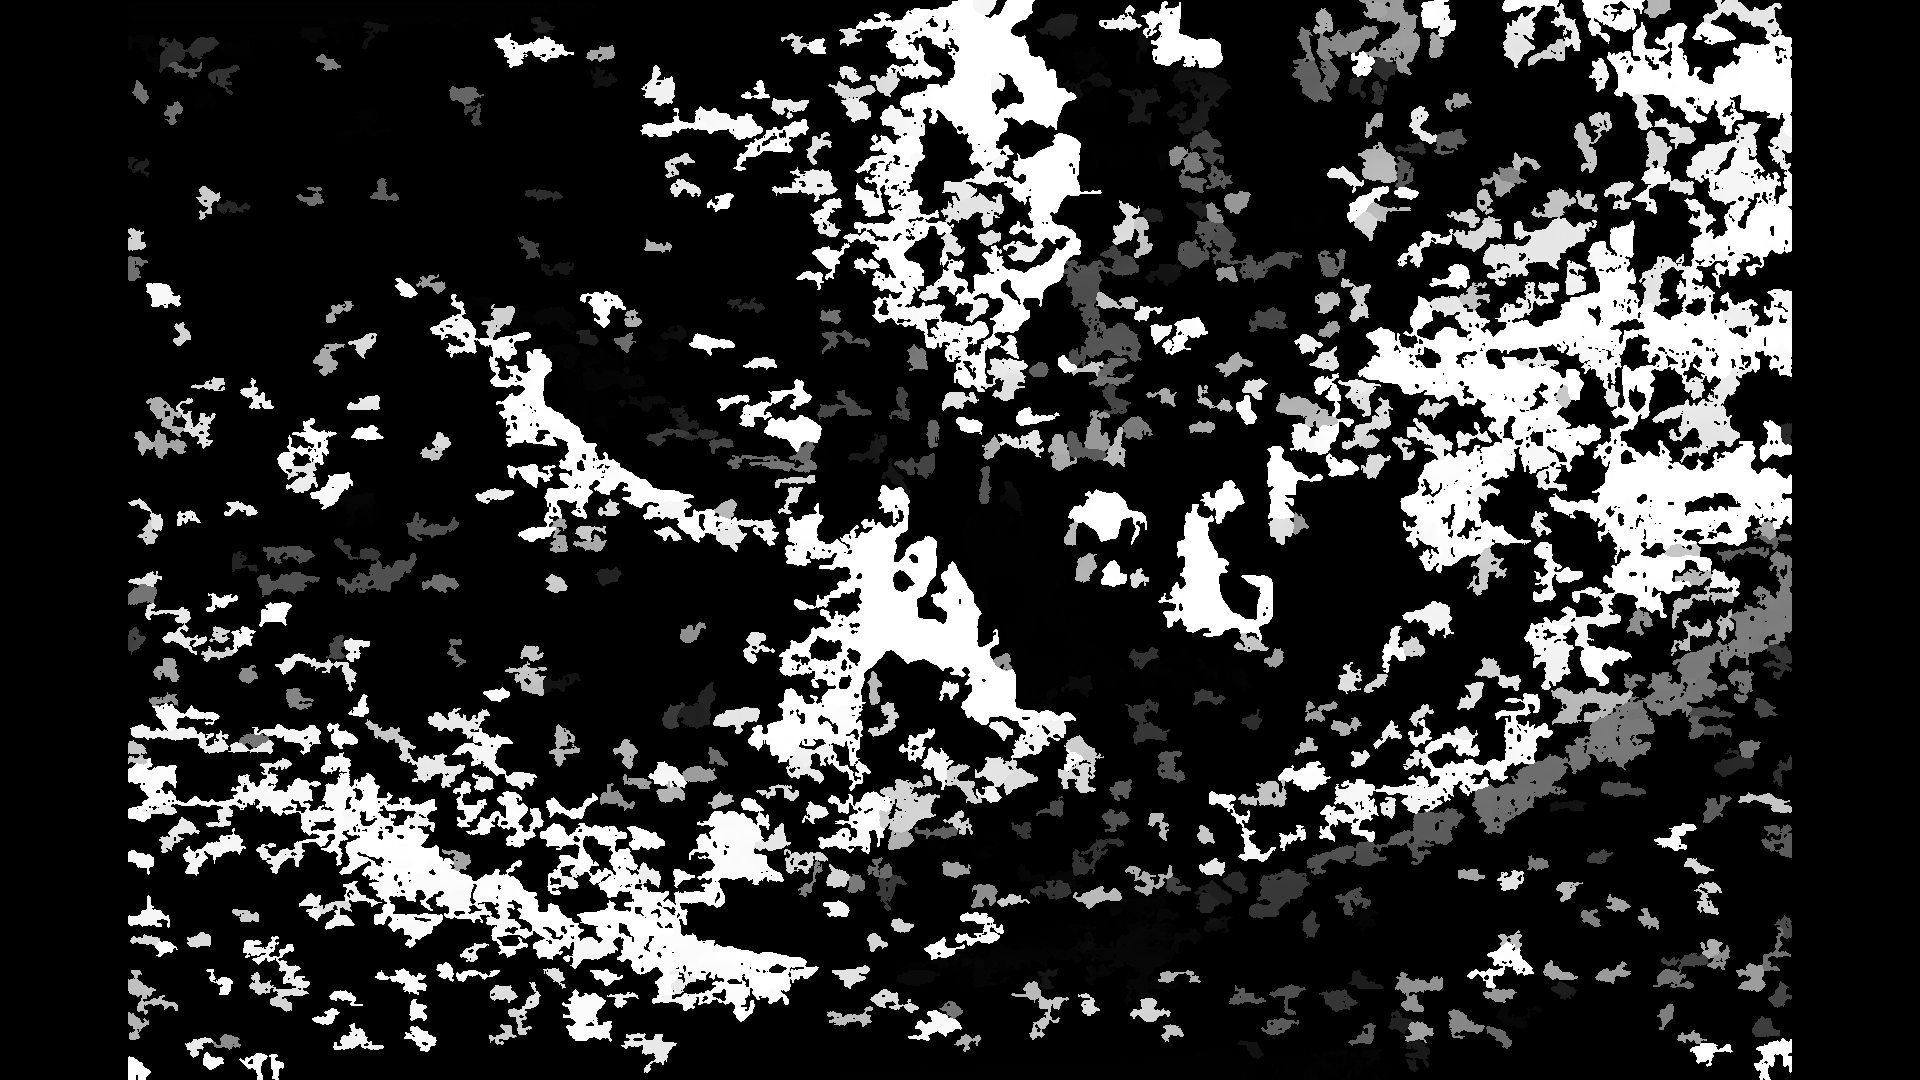
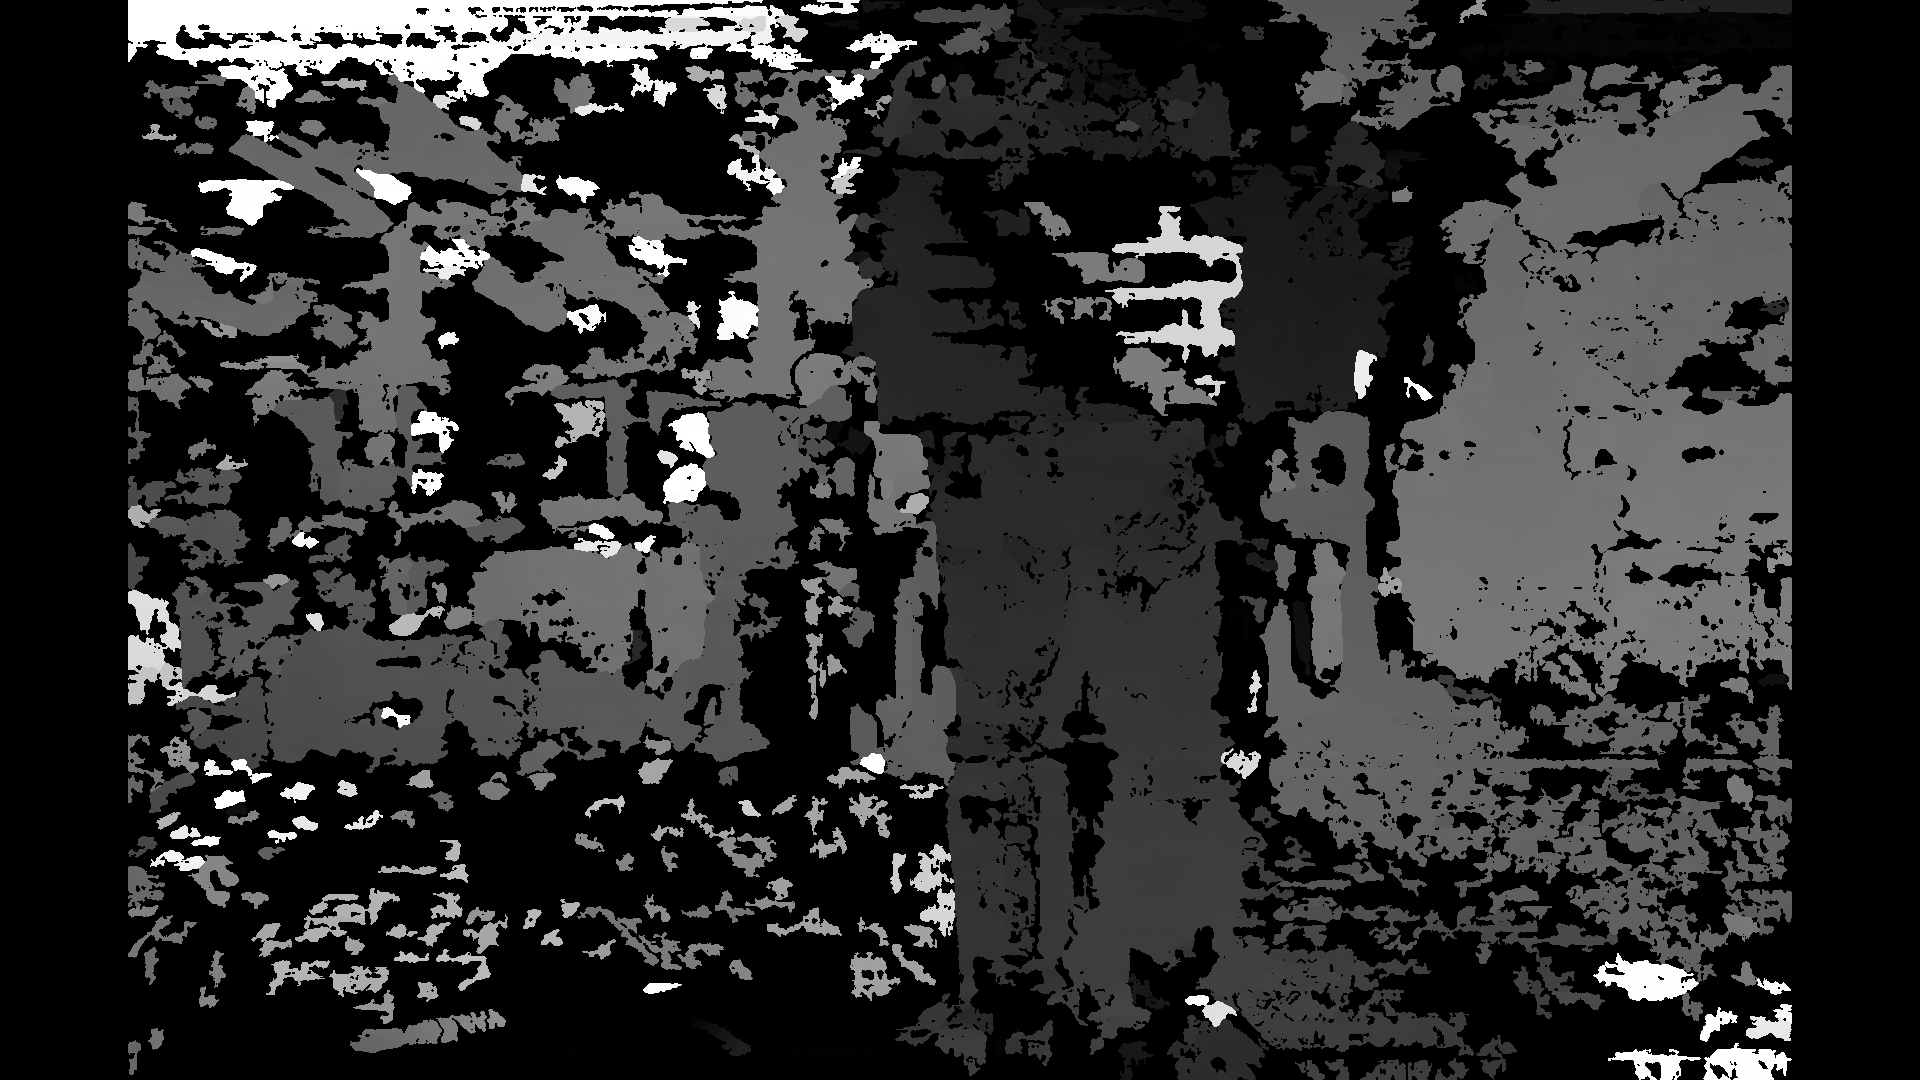
added actual depth to vpi pipeline, and set nice settings for a usable depth map. Added one script for converting a whole set set of images and one script for only one frame. Initial results seem to work well with open3d

diff --git a/vpi_pipeline_dataset.py b/vpi_pipeline_dataset.py
@@ -36,18 +36,36 @@ maps_left_cam, maps_right_cam, ROI1, ROI2 = stereo_rectification_calibrated()
 #wx_r = maps_right_cam_t[0]
 #wy_r = maps_right_cam_t[1]
 
+def calculate_depth(disparity_map, f, B):
+    # Avoid division by zero
+    disparity_map[disparity_map == 0] = 0.1
+    # Compute depth
+    depth_map = (f * B) / disparity_map
+    return depth_map
+
+def normalize_for_display(depth_map):
+    # Normalize depth map to 0-255 for visualization
+    min_val = np.min(depth_map)
+    max_val = np.max(depth_map)
+    norm_depth_map = 65535 * (depth_map - min_val) / (max_val - min_val)
+    return norm_depth_map.astype(np.uint16)
+
+
 def vpi_compute_disp(left_frame, right_frame, depth_path, out_path):
     maxDisparity = 255
     min_disp = 1         #original 16
-    block_size = 15           #original 8
-    uniquenessRatio = 1       #original 1
+    block_size = 26           #original 8
+    uniquenessRatio = 4       #original 1
     quality = 8
-    p1 = 40
-    p2 = 125
+    p1 = 130
+    p2 = 190
     numPasses=3
 
-    scale=0.9
+    scale=1
     downscale=0.5
+
+    f=1075.9
+    B=107.9599
 
     #initialise 2 streams for reading and preprocessing of frames
     streamLeft = vpi.Stream()
@@ -60,13 +78,15 @@ def vpi_compute_disp(left_frame, right_frame, depth_path, out_path):
         with streamLeft:
             #frame2 = cv2.imread("frame_04950_left.png")
             #ret1, frame1 = cam1.read()
-            frame2 = cv2.remap(left_frame, maps_left_cam[0], maps_left_cam[1], cv2.INTER_LANCZOS4)
-            left = vpi.asimage(np.asarray(frame2)).convert(vpi.Format.Y16_ER, scale=scale)
+            left_frame = cv2.remap(left_frame, maps_left_cam[0], maps_left_cam[1], cv2.INTER_LANCZOS4)
+            left_frame = left_frame[ROI1[1]:ROI1[3], ROI1[0]:ROI1[2]] #minus 1 to set shape to same dimensions TODO: solve this better
+            left = vpi.asimage(np.asarray(left_frame)).convert(vpi.Format.Y16_ER, scale=scale)
         with streamRight:
             #ret2, frame2 = cam2.read()
             #frame1 = cv2.imread("frame_04950_right.png")
-            frame1 = cv2.remap(right_frame, maps_right_cam[0], maps_right_cam[1], cv2.INTER_LANCZOS4)
-            right = vpi.asimage(np.asarray(frame1)).convert(vpi.Format.Y16_ER, scale=scale)
+            right_frame = cv2.remap(right_frame, maps_right_cam[0], maps_right_cam[1], cv2.INTER_LANCZOS4)
+            right_frame = right_frame[ROI1[1]:ROI1[3], ROI1[0]:ROI1[2]]
+            right = vpi.asimage(np.asarray(right_frame)).convert(vpi.Format.Y16_ER, scale=scale)
 
     #with vpi.Backend.CUDA:
     #    with streamLeft:
@@ -79,7 +99,6 @@ def vpi_compute_disp(left_frame, right_frame, depth_path, out_path):
     outWidth = (left.size[0] + downscale - 1) // downscale
     outHeight = (left.size[1] + downscale - 1) // downscale
 
-    #use left stream to consolidate actual stereo processing
     streamStereo = streamLeft
 
     #estimate stereo disparity
@@ -87,33 +106,31 @@ def vpi_compute_disp(left_frame, right_frame, depth_path, out_path):
         disparityS16 = vpi.stereodisp(left, right, window=block_size, maxdisp=maxDisparity, mindisp=min_disp, 
                                     quality=quality, uniqueness=uniquenessRatio, includediagonals=True, numpasses=numPasses, p1=p1, p2=p2)
 
-    #TODO: VPI STAGE 3: CLEANUP
-    #must convert to pitch-linear if block-linear format
     if disparityS16.format == vpi.Format.S16_BL:
                 disparityS16 = disparityS16.convert(vpi.Format.S16, backend=vpi.Backend.CUDA)
 
     with streamStereo, vpi.Backend.CUDA:
         #scale and convert disparity map
-        disparityU16 = disparityS16.convert(vpi.Format.U16, scale=255.0/(32*maxDisparity)).cpu()
-
-        #convert to color JET map
-        #disparityColor = cv2.applyColorMap(disparityU16, cv2.COLORMAP_JET)
-        
+        disparityU16 = disparityS16.convert(vpi.Format.U16, scale=65535.0 / (32 * maxDisparity)).cpu()
+     
         left = left.convert(vpi.Format.U8).cpu()
         right = right.convert(vpi.Format.U8).cpu()
 
-        side_by_side_img = np.hstack((frame2, frame1))
+        side_by_side_img = np.hstack((left_frame, right_frame))
 
         # Draw horizontal lines
         stereo_uncalib_w_lines = draw_horizontal_lines(side_by_side_img)
         
+        depth_map = calculate_depth(disparityU16, f, B)
+
+        normalized_depth_map = normalize_for_display(depth_map)
 
         #cv2.imshow('STEREO', stereo_uncalib_w_lines)
         #cv2.imshow('DISPARITY', disparityU8)
         #cv2.moveWindow('LEFT FRAME UDIST', 100, 250)
         #cv2.moveWindow('RIGHT FRAME UDIST', 1100, 250)
         #cv2.moveWindow('DISPARITY', 100, 850)
-        cv2.imwrite(depth_path, disparityU16)
+        cv2.imwrite(depth_path, normalized_depth_map)
         cv2.imwrite(out_path, left_frame)
         #cv2.imwrite("disparity_map_color.png", disparityColor)
         cv2.imwrite('rectified_stereo.png', stereo_uncalib_w_lines)
@@ -131,10 +148,10 @@ def vpi_compute_disp(left_frame, right_frame, depth_path, out_path):
 
 if __name__ == "__main__":
     # Paths to the folders containing the stereo images
-    left_folder = 'data/images/left'
-    right_folder = 'data/images/right'
-    depth_folder = 'data/images/depth'
-    out_img_folder = 'data/images/out_img'
+    left_folder = '/media/seaclear/639f8c93-fac2-4b84-a4fe-b261541674e9/lab_tests/lab_test_2808/28-08-2024_16_15_06/left'
+    right_folder = '/media/seaclear/639f8c93-fac2-4b84-a4fe-b261541674e9/lab_tests/lab_test_2808/28-08-2024_16_15_06/right'
+    depth_folder = '/media/seaclear/639f8c93-fac2-4b84-a4fe-b261541674e9/lab_tests/lab_test_2808/28-08-2024_16_15_06/depth_vpi'
+    out_img_folder = '/media/seaclear/639f8c93-fac2-4b84-a4fe-b261541674e9/lab_tests/lab_test_2808/28-08-2024_16_15_06/color'
 
     # List all files in the left and right folders
     left_images = sorted(os.listdir(left_folder))

diff --git a/vpi_one_frame.py b/vpi_one_frame.py
@@ -1,0 +1,144 @@
+import cv2
+import numpy as np
+from gstreamer.gstreamer_base_code import __gstreamer_pipeline
+#from rectification.stereo_rectification_calibrated import stereo_rectification_calibrated
+from stereo_rectification_calibrated import stereo_rectification_calibrated
+import vpi
+import os
+from tqdm import tqdm
+
+maps_left_cam, maps_right_cam, ROI1, ROI2 = stereo_rectification_calibrated()
+
+def draw_horizontal_lines(img, num_lines=20, color=(0, 255, 0), thickness=1):
+    height = img.shape[0]
+    step = height // num_lines
+    for i in range(0, height, step):
+        cv2.line(img, (0, i), (img.shape[1], i), color, thickness)
+    return img
+
+def calculate_depth(disparity_map, f, B):
+    # Avoid division by zero
+    disparity_map[disparity_map == 0] = 0.1
+    # Compute depth
+    depth_map = (f * B) / disparity_map
+    return depth_map
+
+def normalize_for_display(depth_map):
+    # Normalize depth map to 0-255 for visualization
+    min_val = np.min(depth_map)
+    max_val = np.max(depth_map)
+    norm_depth_map = 65535 * (depth_map - min_val) / (max_val - min_val)
+    return norm_depth_map.astype(np.uint16)
+
+def vpi_compute_disp(left_frame, right_frame):
+    maxDisparity = 255
+    min_disp = 1         #original 16
+    block_size = 32           #original 8
+    uniquenessRatio = 1       #original 1
+    quality = 8
+    p1 = 130
+    p2 = 190
+    numPasses=3
+
+    scale=1
+    downscale=0.5
+
+    f=1075.9
+    B=107.9599
+
+    #initialise 2 streams for reading and preprocessing of frames
+    streamLeft = vpi.Stream()
+    streamRight = vpi.Stream()
+
+
+    #TODO: VPI STAGE 2: PROCESSING LOOP
+    #while True:
+    with vpi.Backend.CUDA:   #or CUDA
+        with streamLeft:
+            #frame2 = cv2.imread("frame_04950_left.png")
+            #ret1, frame1 = cam1.read()
+            left_frame = cv2.remap(left_frame, maps_left_cam[0], maps_left_cam[1], cv2.INTER_LANCZOS4)
+            left_frame = left_frame[ROI1[1]:ROI1[3], ROI1[0]:ROI1[2]] #minus 1 to set shape to same dimensions TODO: solve this better
+            left = vpi.asimage(np.asarray(left_frame)).convert(vpi.Format.Y16_ER, scale=scale)
+        with streamRight:
+            #ret2, frame2 = cam2.read()
+            #frame1 = cv2.imread("frame_04950_right.png")
+            right_frame = cv2.remap(right_frame, maps_right_cam[0], maps_right_cam[1], cv2.INTER_LANCZOS4)
+            right_frame = right_frame[ROI1[1]:ROI1[3], ROI1[0]:ROI1[2]]
+            right = vpi.asimage(np.asarray(right_frame)).convert(vpi.Format.Y16_ER, scale=scale)
+
+    #with vpi.Backend.CUDA:
+    #    with streamLeft:
+    #        left_1 = left.convert(vpi.Format.Y16_ER_BL)
+    #    with streamRight:
+    #        right_1 = right.convert(vpi.Format.Y16_ER_BL)
+
+
+    #get output width and height
+    outWidth = (left.size[0] + downscale - 1) // downscale
+    outHeight = (left.size[1] + downscale - 1) // downscale
+
+    #use left stream to consolidate actual stereo processing
+    streamStereo = streamLeft
+
+    #estimate stereo disparity
+    with streamStereo, vpi.Backend.CUDA:
+        disparityS16 = vpi.stereodisp(left, right, window=block_size, maxdisp=maxDisparity, mindisp=min_disp, 
+                                    quality=quality, uniqueness=uniquenessRatio, includediagonals=False, numpasses=numPasses, p1=p1, p2=p2)
+
+    #TODO: VPI STAGE 3: CLEANUP
+    #must convert to pitch-linear if block-linear format
+    if disparityS16.format == vpi.Format.S16_BL:
+                disparityS16 = disparityS16.convert(vpi.Format.S16, backend=vpi.Backend.CUDA)
+
+    with streamStereo, vpi.Backend.CUDA:
+        #scale and convert disparity map
+        disparityU16 = disparityS16.convert(vpi.Format.U16, scale=65535.0 / (32 * maxDisparity)).cpu()
+        disparityU8 = disparityS16.convert(vpi.Format.U8, scale=255.0 / (32 * maxDisparity)).cpu()
+
+        #convert to color JET map
+        #disparityColor = cv2.applyColorMap(disparityU16, cv2.COLORMAP_JET)
+        
+        left = left.convert(vpi.Format.U8).cpu()
+        right = right.convert(vpi.Format.U8).cpu()
+
+        side_by_side_img = np.hstack((left_frame, right_frame))
+
+        # Draw horizontal lines
+        stereo = draw_horizontal_lines(side_by_side_img)
+        
+        #disparityU8 = disparityU8.astype(np.float32)  # Convert to float for depth calculation
+        depth_map = calculate_depth(disparityU8, f, B)
+
+        normalized_depth_map = normalize_for_display(depth_map)
+
+        cv2.imshow('STEREO', stereo)
+        cv2.imshow('DISPARITY', disparityU16)
+        cv2.imshow("DEPTH", normalized_depth_map)
+        #cv2.moveWindow('LEFT FRAME UDIST', 100, 250)
+        #cv2.moveWindow('RIGHT FRAME UDIST', 1100, 250)
+        #cv2.moveWindow('DISPARITY', 100, 850)
+        #cv2.imwrite(depth_path, disparityU16)
+        #cv2.imwrite(out_path, left_frame)
+        #cv2.imwrite("disparity_map_color.png", disparityColor)
+        #cv2.imwrite('rectified_stereo.png', stereo_uncalib_w_lines)
+        #cv2.imwrite("left_rectified.png", img_left)
+        #cv2.imwrite("rright_rectified.png", img_right)
+        
+    cv2.waitKey(0)
+    #if cv2.waitKey(1)==ord('q'):
+    #    break
+
+
+    #cam1.release()
+    #cam2.release()
+    cv2.destroyAllWindows()
+
+
+if __name__ == "__main__":
+
+    right_image = cv2.imread("16_15_40_right.jpg")
+    left_image = cv2.imread("16_15_40_left.jpg")
+
+    vpi_compute_disp(left_image, right_image)
+        

diff --git a/stereo_rectification_calibrated.py b/stereo_rectification_calibrated.py
@@ -3,7 +3,7 @@ import numpy as np
 
 def stereo_rectification_calibrated():
     #read the intrinsic parametres
-    fs = cv2.FileStorage("calibration_params.yml", cv2.FILE_STORAGE_READ)
+    fs = cv2.FileStorage("calibration_params_2708.yml", cv2.FILE_STORAGE_READ)
     calibParams = {'cameraMatrixLeft' : fs.getNode("cameraMatrixLeft").mat(), 
                    'distCoeffsLeft' : fs.getNode("distCoeffsLeft").mat(), 
                     'cameraMatrixRight' : fs.getNode("cameraMatrixRight").mat(), 
@@ -18,7 +18,7 @@ def stereo_rectification_calibrated():
     #TODO: how to ge new ImageSize parameter ? 
     R1, R2, P1, P2, Q, ROI1, ROI2 = cv2.stereoRectify(calibParams['cameraMatrixLeft'], calibParams['distCoeffsLeft'], 
                                                     calibParams['cameraMatrixRight'], calibParams['distCoeffsRight'], 
-                                                    (960, 540), calibParams['R'], calibParams['T'], 1, newImageSize=(960, 540) )
+                                                    (1920, 1080), calibParams['R'], calibParams['T'], 1, newImageSize=(1920, 1080) )
     
     #TODO: implement code to get undistortion and rectification transformation map
     maps_left_cam = []
@@ -26,4 +26,4 @@ def stereo_rectification_calibrated():
     maps_left_cam = cv2.initUndistortRectifyMap(calibParams['cameraMatrixLeft'], calibParams['distCoeffsLeft'], R1, P1, (1920, 1080), cv2.CV_16SC2)
     maps_right_cam = cv2.initUndistortRectifyMap(calibParams['cameraMatrixRight'], calibParams['distCoeffsRight'], R2, P2, (1920, 1080), cv2.CV_16SC2)
 
-    return maps_left_cam, maps_right_cam, ROI1, ROI2
+    return maps_right_cam, maps_left_cam, ROI1, ROI2

diff --git a/openv_depth_one_frame.py b/openv_depth_one_frame.py
@@ -24,8 +24,8 @@ def display_stereo_images(side_by_side_img):
 #get rectification maps
 maps_left_cam, maps_right_cam, ROI1, ROI2 = stereo_rectification_calibrated()
 
-frame1 = cv2.imread("frame_04950_left.png", cv2.IMREAD_GRAYSCALE)
-frame2 = cv2.imread("frame_04950_right.png", cv2.IMREAD_GRAYSCALE)
+frame1 = cv2.imread("16:15:45_left.jpg", cv2.IMREAD_GRAYSCALE)
+frame2 = cv2.imread("16:15:45_right.jpg", cv2.IMREAD_GRAYSCALE)
 
 #h1, w1 = frame1.shape
 #h2, w2 = frame2.shape
